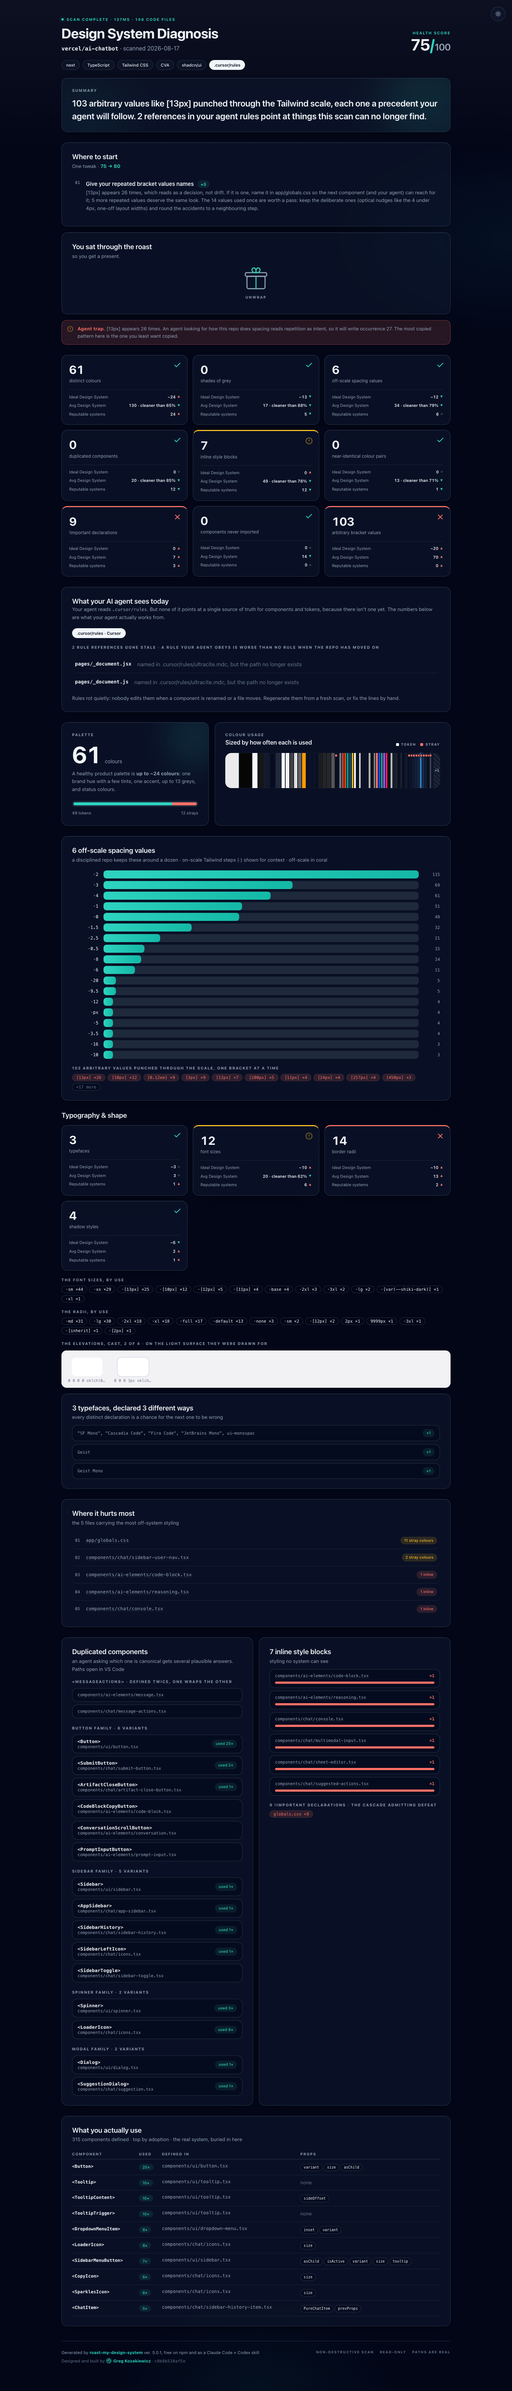
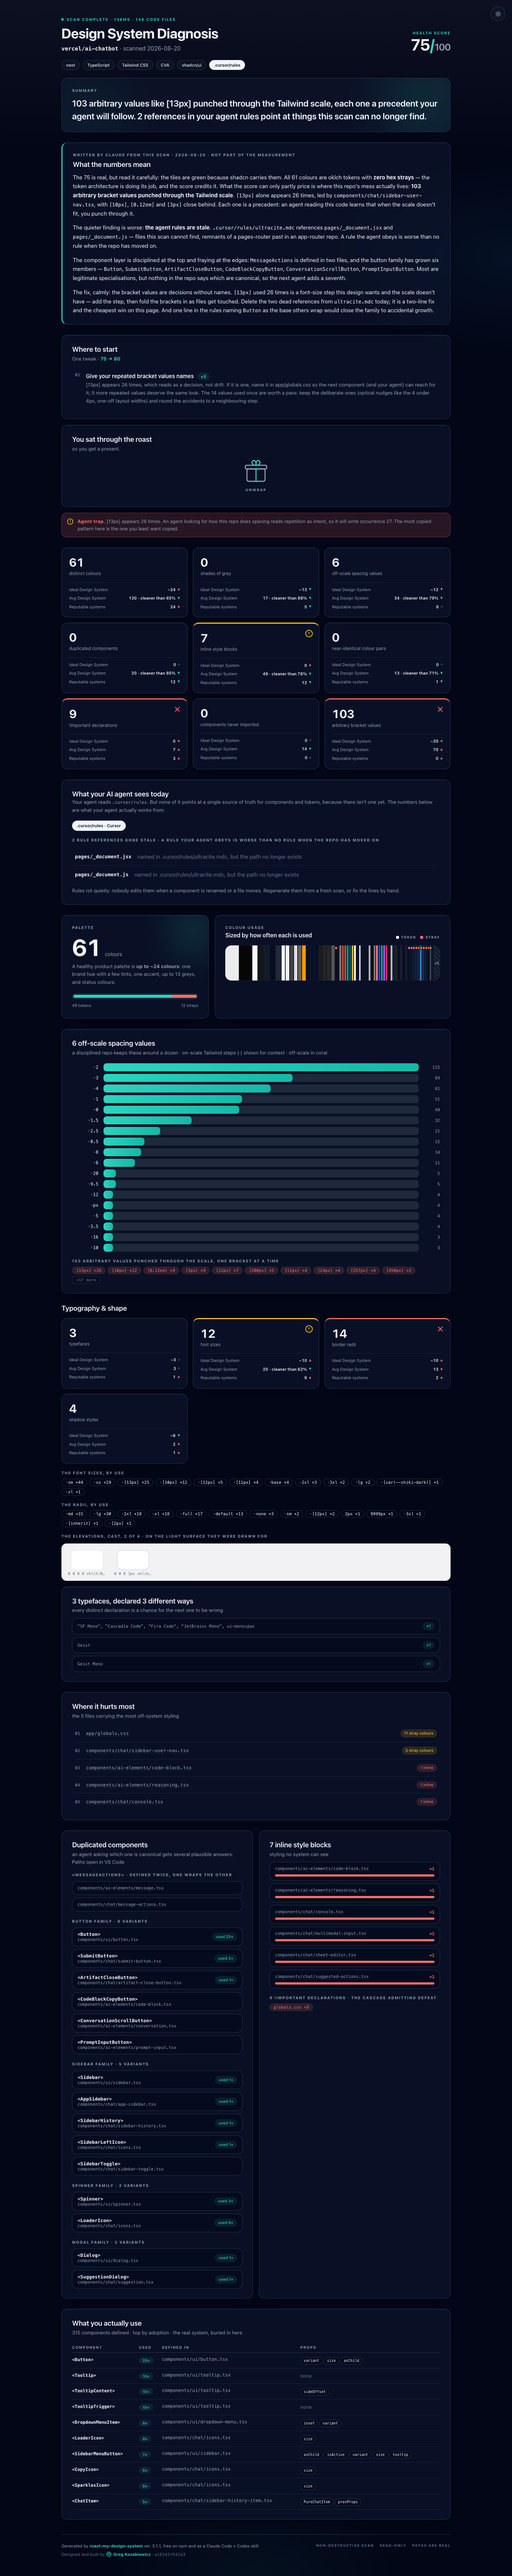
5.1.1: docs and examples catch up with the embedded analysis
vercel/ai-chatbot example regenerated from a fresh scan with Claude's
notes embedded; landing-page card gets a 'with Claude's notes' chip;
README screenshots reshot on that report; cache keys bumped. Also fixes
the one snapshot (apply) that still embedded the scan date, so the
suite survives UTC midnight like the rest. No engine changes.

diff --git a/docs/examples/vercel-ai-chatbot.html b/docs/examples/vercel-ai-chatbot.html
@@ -59,6 +59,14 @@
 
   .eyebrow { font:700 10.5px/1.4 var(--sans); letter-spacing:.16em; text-transform:uppercase; color:var(--dim); }
   .sec-head h2 { font:600 19px/1.3 var(--disp); letter-spacing:-.01em; }
+  /* agent-written analysis (--notes): same glass, but an accent spine and a
+     written-by label keep prose visibly apart from measurement */
+  .notes-sec { border-left:3px solid var(--accent); }
+  .notes-sec .sec-head .eyebrow { margin-bottom:6px; }
+  .notes-body { display:flex; flex-direction:column; gap:14px; margin-top:10px;
+    font-size:15px; line-height:1.65; color:var(--text); }
+  .notes-body ul { margin:0; padding-left:20px; display:flex; flex-direction:column; gap:6px; }
+  .notes-body .mono { font-family:var(--mono); font-size:.92em; }
   .sec-head .sub { margin-top:3px; }
   .sub { color:var(--dim); font-size:13.5px; }
   .h3d { font:600 16px/1.3 var(--disp); letter-spacing:-.01em; margin-top:3px; }
@@ -331,7 +339,7 @@
[1 lines of base64/hex data omitted]
   .author:hover { text-decoration:underline; }
 </style>
-<!-- rmds-schema: pencilrebel/4.5.1 -->
+<!-- rmds-schema: pencilrebel/5.1.1 -->
 </head><body>
 <button class="theme-toggle glass" aria-label="Switch between light and dark mode" onclick="(function(){var r=document.documentElement,t=r.getAttribute('data-theme')==='light'?'dark':'light';r.setAttribute('data-theme',t);try{localStorage.setItem('roast-theme',t)}catch(e){}})()">
   <svg class="only-dark" viewBox="0 0 24 24"><circle cx="12" cy="12" r="4"/><line x1="12" y1="2" x2="12" y2="5"/><line x1="12" y1="19" x2="12" y2="22"/><line x1="2" y1="12" x2="5" y2="12"/><line x1="19" y1="12" x2="22" y2="12"/><line x1="4.9" y1="4.9" x2="7" y2="7"/><line x1="17" y1="17" x2="19.1" y2="19.1"/><line x1="4.9" y1="19.1" x2="7" y2="17"/><line x1="17" y1="7" x2="19.1" y2="4.9"/></svg>
@@ -343,9 +351,9 @@
 <header>
   <div class="hero">
     <div>
-      <div class="kicker"><span class="dot"></span>Scan complete · 137ms · 146 code files</div>
+      <div class="kicker"><span class="dot"></span>Scan complete · 136ms · 146 code files</div>
       <h1>Design System Diagnosis</h1>
-      <div class="meta"><span class="mono">vercel/ai-chatbot</span> · scanned 2026-08-17</div>
+      <div class="meta"><span class="mono">vercel/ai-chatbot</span> · scanned 2026-08-20</div>
     </div>
     <div class="score"><div class="eyebrow">Health score</div><div class="val">75<span class="slash">/</span><span class="of">100</span></div></div>
   </div>
@@ -358,6 +366,14 @@
     <div class="verdict">103 arbitrary values like [13px] punched through the Tailwind scale, each one a precedent your agent will follow. 2 references in your agent rules point at things this scan can no longer find.</div>
   </div>
 </header>
+
+<section class="glass pad notes-sec">
+    <div class="sec-head">
+      <div class="eyebrow">Written by Claude from this scan · 2026-08-20 · not part of the measurement</div>
+      <h2>What the numbers mean</h2>
+    </div>
+    <div class="notes-body"><p>The 75 is real, but read it carefully: the tiles are green because shadcn carries them. All 61 colours are oklch tokens with <strong>zero hex strays</strong> — the token architecture is doing its job, and the score credits it. What the score can only partly price is where this repo's mess actually lives: <strong>103 arbitrary bracket values punched through the Tailwind scale</strong>. <span class="mono">[13px]</span> alone appears 26 times, led by <span class="mono">components/chat/sidebar-user-nav.tsx</span>, with <span class="mono">[10px]</span>, <span class="mono">[0.12em]</span> and <span class="mono">[3px]</span> close behind. Each one is a precedent: an agent reading this code learns that when the scale doesn't fit, you punch through it.</p><p>The quieter finding is worse: <strong>the agent rules are stale</strong>. <span class="mono">.cursor/rules/ultracite.mdc</span> references <span class="mono">pages/_document.jsx</span> and <span class="mono">pages/_document.js</span> — files this scan cannot find, remnants of a pages-router past in an app-router repo. A rule the agent obeys is worse than no rule when the repo has moved on.</p><p>The component layer is disciplined at the top and fraying at the edges: <span class="mono">MessageActions</span> is defined in two files, and the button family has grown six members — <span class="mono">Button</span>, <span class="mono">SubmitButton</span>, <span class="mono">ArtifactCloseButton</span>, <span class="mono">CodeBlockCopyButton</span>, <span class="mono">ConversationScrollButton</span>, <span class="mono">PromptInputButton</span>. Most are legitimate specialisations, but nothing in the repo says which are canonical, so the next agent adds a seventh.</p><p>The fix, calmly: the bracket values are decisions without names. <span class="mono">[13px]</span> used 26 times is a font-size step this design wants and the scale doesn't have — add the step, then fold the brackets in as files get touched. Delete the two dead references from <span class="mono">ultracite.mdc</span> today; it is a two-line fix and the cheapest win on this page. And one line in the rules naming <span class="mono">Button</span> as the base others wrap would close the family to accidental growth.</p></div>
+</section>
 
 <section class="glass pad">
     <div class="sec-head"><h2>Where to start</h2><p class="sub">One tweak · <b class="proj">75 &rarr; 80</b></p></div>
@@ -385,7 +401,7 @@
           <span class="gift-count">12 rules generated from this scan, every one with a receipt</span></div>
         <pre class="gift-md" id="gift-md">## Design system rules
 
-&lt;!-- Generated by roast-my-design-system from a scan of vercel/ai-chatbot on 2026-08-17.
+&lt;!-- Generated by roast-my-design-system from a scan of vercel/ai-chatbot on 2026-08-20.
      Paste into CLAUDE.md, .cursor/rules or AGENTS.md. Regenerate after big refactors:
      npx roast-my-design-system --rules --&gt;
 
@@ -435,7 +451,7 @@ Follow these rules when writing or editing UI in this repo. Every rule below was
 - Before styling anything new, look at a neighbouring component and match how it does it. Consistency with the repo beats personal preference.
 
 ---
-*Generated by [roast-my-design-system](https://github.com/pencilrebel/roast-my-design-system) ver. 4.5.1. Rescan after refactors to keep these rules honest.*
+*Generated by [roast-my-design-system](https://github.com/pencilrebel/roast-my-design-system) ver. 5.1.1. Rescan after refactors to keep these rules honest.*
 </pre>
         <div class="gift-actions">
           <button class="gbtn" id="gift-copy">Copy the rules</button>
@@ -619,7 +635,7 @@ Follow these rules when writing or editing UI in this repo. Every rule below was
     <div class="ledger">
     <div class="ledger-row">
       <span class="ledger-idx">01</span>
-      <a class="path" href="vscode://file//private/tmp/roast-examples/ai-chatbot/app/globals.css">app/globals.css</a>
+      <a class="path" href="vscode://file//private/tmp/claude-501/-Users-greg-codework-roast-website/df7290bc-6372-4241-ac64-d2e9954d8f77/scratchpad/ai-chatbot/app/globals.css">app/globals.css</a>
       <span class="ledger-pills">
         <span class="pill pill-amber">11 stray colours</span>
         
@@ -627,7 +643,7 @@ Follow these rules when writing or editing UI in this repo. Every rule below was
     </div>
     <div class="ledger-row">
       <span class="ledger-idx">02</span>
-      <a class="path" href="vscode://file//private/tmp/roast-examples/ai-chatbot/components/chat/sidebar-user-nav.tsx">components/chat/sidebar-user-nav.tsx</a>
+      <a class="path" href="vscode://file//private/tmp/claude-501/-Users-greg-codework-roast-website/df7290bc-6372-4241-ac64-d2e9954d8f77/scratchpad/ai-chatbot/components/chat/sidebar-user-nav.tsx">components/chat/sidebar-user-nav.tsx</a>
       <span class="ledger-pills">
         <span class="pill pill-amber">2 stray colours</span>
         
@@ -635,7 +651,7 @@ Follow these rules when writing or editing UI in this repo. Every rule below was
     </div>
     <div class="ledger-row">
       <span class="ledger-idx">03</span>
-      <a class="path" href="vscode://file//private/tmp/roast-examples/ai-chatbot/components/ai-elements/code-block.tsx">components/ai-elements/code-block.tsx</a>
+      <a class="path" href="vscode://file//private/tmp/claude-501/-Users-greg-codework-roast-website/df7290bc-6372-4241-ac64-d2e9954d8f77/scratchpad/ai-chatbot/components/ai-elements/code-block.tsx">components/ai-elements/code-block.tsx</a>
       <span class="ledger-pills">
         
         <span class="pill pill-coral">1 inline</span>
@@ -643,7 +659,7 @@ Follow these rules when writing or editing UI in this repo. Every rule below was
     </div>
     <div class="ledger-row">
       <span class="ledger-idx">04</span>
-      <a class="path" href="vscode://file//private/tmp/roast-examples/ai-chatbot/components/ai-elements/reasoning.tsx">components/ai-elements/reasoning.tsx</a>
+      <a class="path" href="vscode://file//private/tmp/claude-501/-Users-greg-codework-roast-website/df7290bc-6372-4241-ac64-d2e9954d8f77/scratchpad/ai-chatbot/components/ai-elements/reasoning.tsx">components/ai-elements/reasoning.tsx</a>
       <span class="ledger-pills">
         
         <span class="pill pill-coral">1 inline</span>
@@ -651,7 +667,7 @@ Follow these rules when writing or editing UI in this repo. Every rule below was
     </div>
     <div class="ledger-row">
       <span class="ledger-idx">05</span>
-      <a class="path" href="vscode://file//private/tmp/roast-examples/ai-chatbot/components/chat/console.tsx">components/chat/console.tsx</a>
+      <a class="path" href="vscode://file//private/tmp/claude-501/-Users-greg-codework-roast-website/df7290bc-6372-4241-ac64-d2e9954d8f77/scratchpad/ai-chatbot/components/chat/console.tsx">components/chat/console.tsx</a>
       <span class="ledger-pills">
         
         <span class="pill pill-coral">1 inline</span>
@@ -664,7 +680,7 @@ Follow these rules when writing or editing UI in this repo. Every rule below was
     <div class="fam">
       <div class="eyebrow">&lt;MessageActions&gt; · defined twice, one wraps the other</div>
       <div class="fam-rows">
-      <div class="mini-card"><a class="path" href="vscode://file//private/tmp/roast-examples/ai-chatbot/components/ai-elements/message.tsx">components/ai-elements/message.tsx</a></div><div class="mini-card"><a class="path" href="vscode://file//private/tmp/roast-examples/ai-chatbot/components/chat/message-actions.tsx">components/chat/message-actions.tsx</a></div>
+      <div class="mini-card"><a class="path" href="vscode://file//private/tmp/claude-501/-Users-greg-codework-roast-website/df7290bc-6372-4241-ac64-d2e9954d8f77/scratchpad/ai-chatbot/components/ai-elements/message.tsx">components/ai-elements/message.tsx</a></div><div class="mini-card"><a class="path" href="vscode://file//private/tmp/claude-501/-Users-greg-codework-roast-website/df7290bc-6372-4241-ac64-d2e9954d8f77/scratchpad/ai-chatbot/components/chat/message-actions.tsx">components/chat/message-actions.tsx</a></div>
       
       </div>
     </div>
@@ -700,27 +716,27 @@ Follow these rules when writing or editing UI in this repo. Every rule below was
     <div class="sec-head"><h2>7 inline style blocks</h2><p class="sub">styling no system can see</p></div>
     <div class="fam-rows">
       <div class="mini-card col">
-        <div class="mc-row"><a class="path" href="vscode://file//private/tmp/roast-examples/ai-chatbot/components/ai-elements/code-block.tsx">components/ai-elements/code-block.tsx</a><span class="mc-count">×1</span></div>
+        <div class="mc-row"><a class="path" href="vscode://file//private/tmp/claude-501/-Users-greg-codework-roast-website/df7290bc-6372-4241-ac64-d2e9954d8f77/scratchpad/ai-chatbot/components/ai-elements/code-block.tsx">components/ai-elements/code-block.tsx</a><span class="mc-count">×1</span></div>
         <div class="mc-track"><div class="mc-bar" style="width:100%"></div></div>
       </div>
       <div class="mini-card col">
-        <div class="mc-row"><a class="path" href="vscode://file//private/tmp/roast-examples/ai-chatbot/components/ai-elements/reasoning.tsx">components/ai-elements/reasoning.tsx</a><span class="mc-count">×1</span></div>
+        <div class="mc-row"><a class="path" href="vscode://file//private/tmp/claude-501/-Users-greg-codework-roast-website/df7290bc-6372-4241-ac64-d2e9954d8f77/scratchpad/ai-chatbot/components/ai-elements/reasoning.tsx">components/ai-elements/reasoning.tsx</a><span class="mc-count">×1</span></div>
         <div class="mc-track"><div class="mc-bar" style="width:100%"></div></div>
       </div>
       <div class="mini-card col">
-        <div class="mc-row"><a class="path" href="vscode://file//private/tmp/roast-examples/ai-chatbot/components/chat/console.tsx">components/chat/console.tsx</a><span class="mc-count">×1</span></div>
+        <div class="mc-row"><a class="path" href="vscode://file//private/tmp/claude-501/-Users-greg-codework-roast-website/df7290bc-6372-4241-ac64-d2e9954d8f77/scratchpad/ai-chatbot/components/chat/console.tsx">components/chat/console.tsx</a><span class="mc-count">×1</span></div>
         <div class="mc-track"><div class="mc-bar" style="width:100%"></div></div>
       </div>
       <div class="mini-card col">
-        <div class="mc-row"><a class="path" href="vscode://file//private/tmp/roast-examples/ai-chatbot/components/chat/multimodal-input.tsx">components/chat/multimodal-input.tsx</a><span class="mc-count">×1</span></div>
+        <div class="mc-row"><a class="path" href="vscode://file//private/tmp/claude-501/-Users-greg-codework-roast-website/df7290bc-6372-4241-ac64-d2e9954d8f77/scratchpad/ai-chatbot/components/chat/multimodal-input.tsx">components/chat/multimodal-input.tsx</a><span class="mc-count">×1</span></div>
         <div class="mc-track"><div class="mc-bar" style="width:100%"></div></div>
       </div>
       <div class="mini-card col">
-        <div class="mc-row"><a class="path" href="vscode://file//private/tmp/roast-examples/ai-chatbot/components/chat/sheet-editor.tsx">components/chat/sheet-editor.tsx</a><span class="mc-count">×1</span></div>
+        <div class="mc-row"><a class="path" href="vscode://file//private/tmp/claude-501/-Users-greg-codework-roast-website/df7290bc-6372-4241-ac64-d2e9954d8f77/scratchpad/ai-chatbot/components/chat/sheet-editor.tsx">components/chat/sheet-editor.tsx</a><span class="mc-count">×1</span></div>
         <div class="mc-track"><div class="mc-bar" style="width:100%"></div></div>
       </div>
       <div class="mini-card col">
-        <div class="mc-row"><a class="path" href="vscode://file//private/tmp/roast-examples/ai-chatbot/components/chat/suggested-actions.tsx">components/chat/suggested-actions.tsx</a><span class="mc-count">×1</span></div>
+        <div class="mc-row"><a class="path" href="vscode://file//private/tmp/claude-501/-Users-greg-codework-roast-website/df7290bc-6372-4241-ac64-d2e9954d8f77/scratchpad/ai-chatbot/components/chat/suggested-actions.tsx">components/chat/suggested-actions.tsx</a><span class="mc-count">×1</span></div>
         <div class="mc-track"><div class="mc-bar" style="width:100%"></div></div>
       </div></div>
     <div class="receipts"><div class="eyebrow">9 !important declarations · the cascade admitting defeat</div>
@@ -773,8 +789,8 @@ Follow these rules when writing or editing UI in this repo. Every rule below was
 
 <footer>
   <div class="foot-left">
-    <div>Generated by <a class="brand" href="https://github.com/pencilrebel/roast-my-design-system">roast-my-design-system</a> <span class="ver">ver. 4.5.1</span>, free on npm and as a Claude Code + Codex skill</div>
-    <div class="foot-sub">Designed and built by <a class="author" href="https://gregkozakiewicz.com"><span class="gk-mark"></span>Greg Kozakiewicz</a> · <span class="scan-id" title="scan id">c8b8b538af5e</span></div>
+    <div>Generated by <a class="brand" href="https://github.com/pencilrebel/roast-my-design-system">roast-my-design-system</a> <span class="ver">ver. 5.1.1</span>, free on npm and as a Claude Code + Codex skill</div>
+    <div class="foot-sub">Designed and built by <a class="author" href="https://gregkozakiewicz.com"><span class="gk-mark"></span>Greg Kozakiewicz</a> · <span class="scan-id" title="scan id">a18242f642a3</span></div>
   </div>
   <span class="creds"><span>Non-destructive scan</span><span>Read-only</span><span>Paths are real</span></span>
 </footer>

diff --git a/docs/index.html b/docs/index.html
@@ -39,6 +39,8 @@
     padding:14px 18px; margin-top:10px; color:var(--text); text-decoration:none; background:var(--card); }
   a.card:hover { border-color:rgba(45,212,191,.4); }
   a.card span { display:block; font-size:12.5px; color:var(--dim); margin-top:2px; }
+  a.card .notes-chip { display:inline-block; font-style:normal; font-size:10.5px; font-weight:700; letter-spacing:.04em; text-transform:uppercase;
+    color:var(--mint); border:1px solid rgba(45,212,191,.35); border-radius:999px; padding:2px 8px; margin-left:8px; vertical-align:1px; }
   .score { font:700 20px/1 'Sora',sans-serif; color:var(--mint); flex-shrink:0; }
   .score i { font-style:normal; font-size:12px; color:var(--dim2); font-weight:600; }
   .cmd-wrap { overflow-x:auto; margin:14px 0 6px; border:1px solid var(--line); border-radius:14px; }
@@ -111,7 +113,7 @@
 
 <h2>Example roasts</h2>
 <p class="sub">Real reports from public repos, hosted exactly as the skill generates them. Every number is deterministic; every path is real.</p>
-<a class="card" href="examples/vercel-ai-chatbot.html"><div>vercel/ai-chatbot<span>103 arbitrary values like [13px] punched through the Tailwind scale</span></div><div class="score">75<i>/100</i></div></a>
+<a class="card" href="examples/vercel-ai-chatbot.html"><div>vercel/ai-chatbot<em class="notes-chip">with Claude's notes</em><span>103 arbitrary values like [13px] punched through the Tailwind scale</span></div><div class="score">75<i>/100</i></div></a>
 <a class="card" href="examples/excalidraw-excalidraw.html"><div>excalidraw/excalidraw<span>42 colour pairs nearly identical, copy-paste, not decisions</span></div><div class="score">55<i>/100</i></div></a>
 <a class="card" href="examples/dubinc-dub.html"><div>dubinc/dub<span>619 arbitrary bracket values and 22 duplicated components</span></div><div class="score">25<i>/100</i></div></a>
 

diff --git a/README.md b/README.md
@@ -52,13 +52,13 @@ One scan powers all of it; the flags decide what lands on disk. Combine freely.
 - **Making the case without a meeting.** Drop the self-contained HTML report in Slack: a health score and three benchmarks (ideal norms, the 34-repo median, 10 reputable systems) argue for the design system for you.
 - **The fix loop.** Hand the report back to Claude as the punch list and work through the Where to start section, file by file.
 
-The full report for vercel/ai-chatbot, top to bottom:
+The full report for vercel/ai-chatbot, top to bottom — including "What the numbers mean", Claude's read of the scan, embedded right under the verdict:
 
-![The full diagnosis report for vercel/ai-chatbot in dark mode: health score, priced Where to start moves, the wrapped present with the agent rules, an agent trap callout, three-yardstick tiles, palette forensics, spacing receipts, typography specimens, offenders, duplicates, and the component usage ledger](https://raw.githubusercontent.com/pencilrebel/roast-my-design-system/main/assets/report-full-dark.png?v=5.0.1)
+![The full diagnosis report for vercel/ai-chatbot in dark mode: health score, the What the numbers mean analysis written by Claude, priced Where to start moves, the wrapped present with the agent rules, an agent trap callout, three-yardstick tiles, palette forensics, spacing receipts, typography specimens, offenders, duplicates, and the component usage ledger](https://raw.githubusercontent.com/pencilrebel/roast-my-design-system/main/assets/report-full-dark.png?v=5.1.1)
 
 The same report in light mode (one file, built-in toggle):
 
-![The diagnosis report in light mode](https://raw.githubusercontent.com/pencilrebel/roast-my-design-system/main/assets/report-light-hero.png?v=5.0.1)
+![The diagnosis report in light mode](https://raw.githubusercontent.com/pencilrebel/roast-my-design-system/main/assets/report-light-hero.png?v=5.1.1)
 
 ## What makes the numbers trustworthy
 

diff --git a/CHANGELOG.md b/CHANGELOG.md
@@ -2,6 +2,10 @@
 
 All notable changes to roast-my-design-system. One version everywhere: the npm package, the Claude Code plugin, and the report footer always match.
 
+## 5.1.1 — 2026-08-20
+
+- Docs and examples catch up with 5.1.0: the hosted vercel/ai-chatbot example report is regenerated from a fresh scan **with Claude's notes embedded** ("What the numbers mean" live on the page, same 75/100), its card on the landing page carries a "with Claude's notes" chip, README screenshots are reshot on that report so the analysis section is visible, and the landing page leads with the analysis-travels-with-the-report bullet. No engine changes.
+
 ## 5.1.0 — 2026-08-20
 
 - **The roast's analysis ships inside the report.** New `--notes <file.md>` on the diagnose step (and passed through by the npx CLI) embeds an agent-written analysis in the report as **"What the numbers mean"**, between the verdict and Where to start. Born from the first user feedback: an 85/100 report got forwarded to the team while the critical read of those numbers stayed behind in the requester's chat — the score flattered, the analysis never travelled. Now the shared file carries both.

diff --git a/tests/expected/messy.apply.md b/tests/expected/messy.apply.md
@@ -5,7 +5,7 @@ keep me.
 
 ## Design system rules
 
-<!-- Generated by roast-my-design-system from a scan of fixture-messy on 2026-08-19.
+<!-- Generated by roast-my-design-system from a scan of fixture-messy on DATE.
      Paste into CLAUDE.md, .cursor/rules or AGENTS.md. Regenerate after big refactors:
      npx roast-my-design-system --rules -->
 
